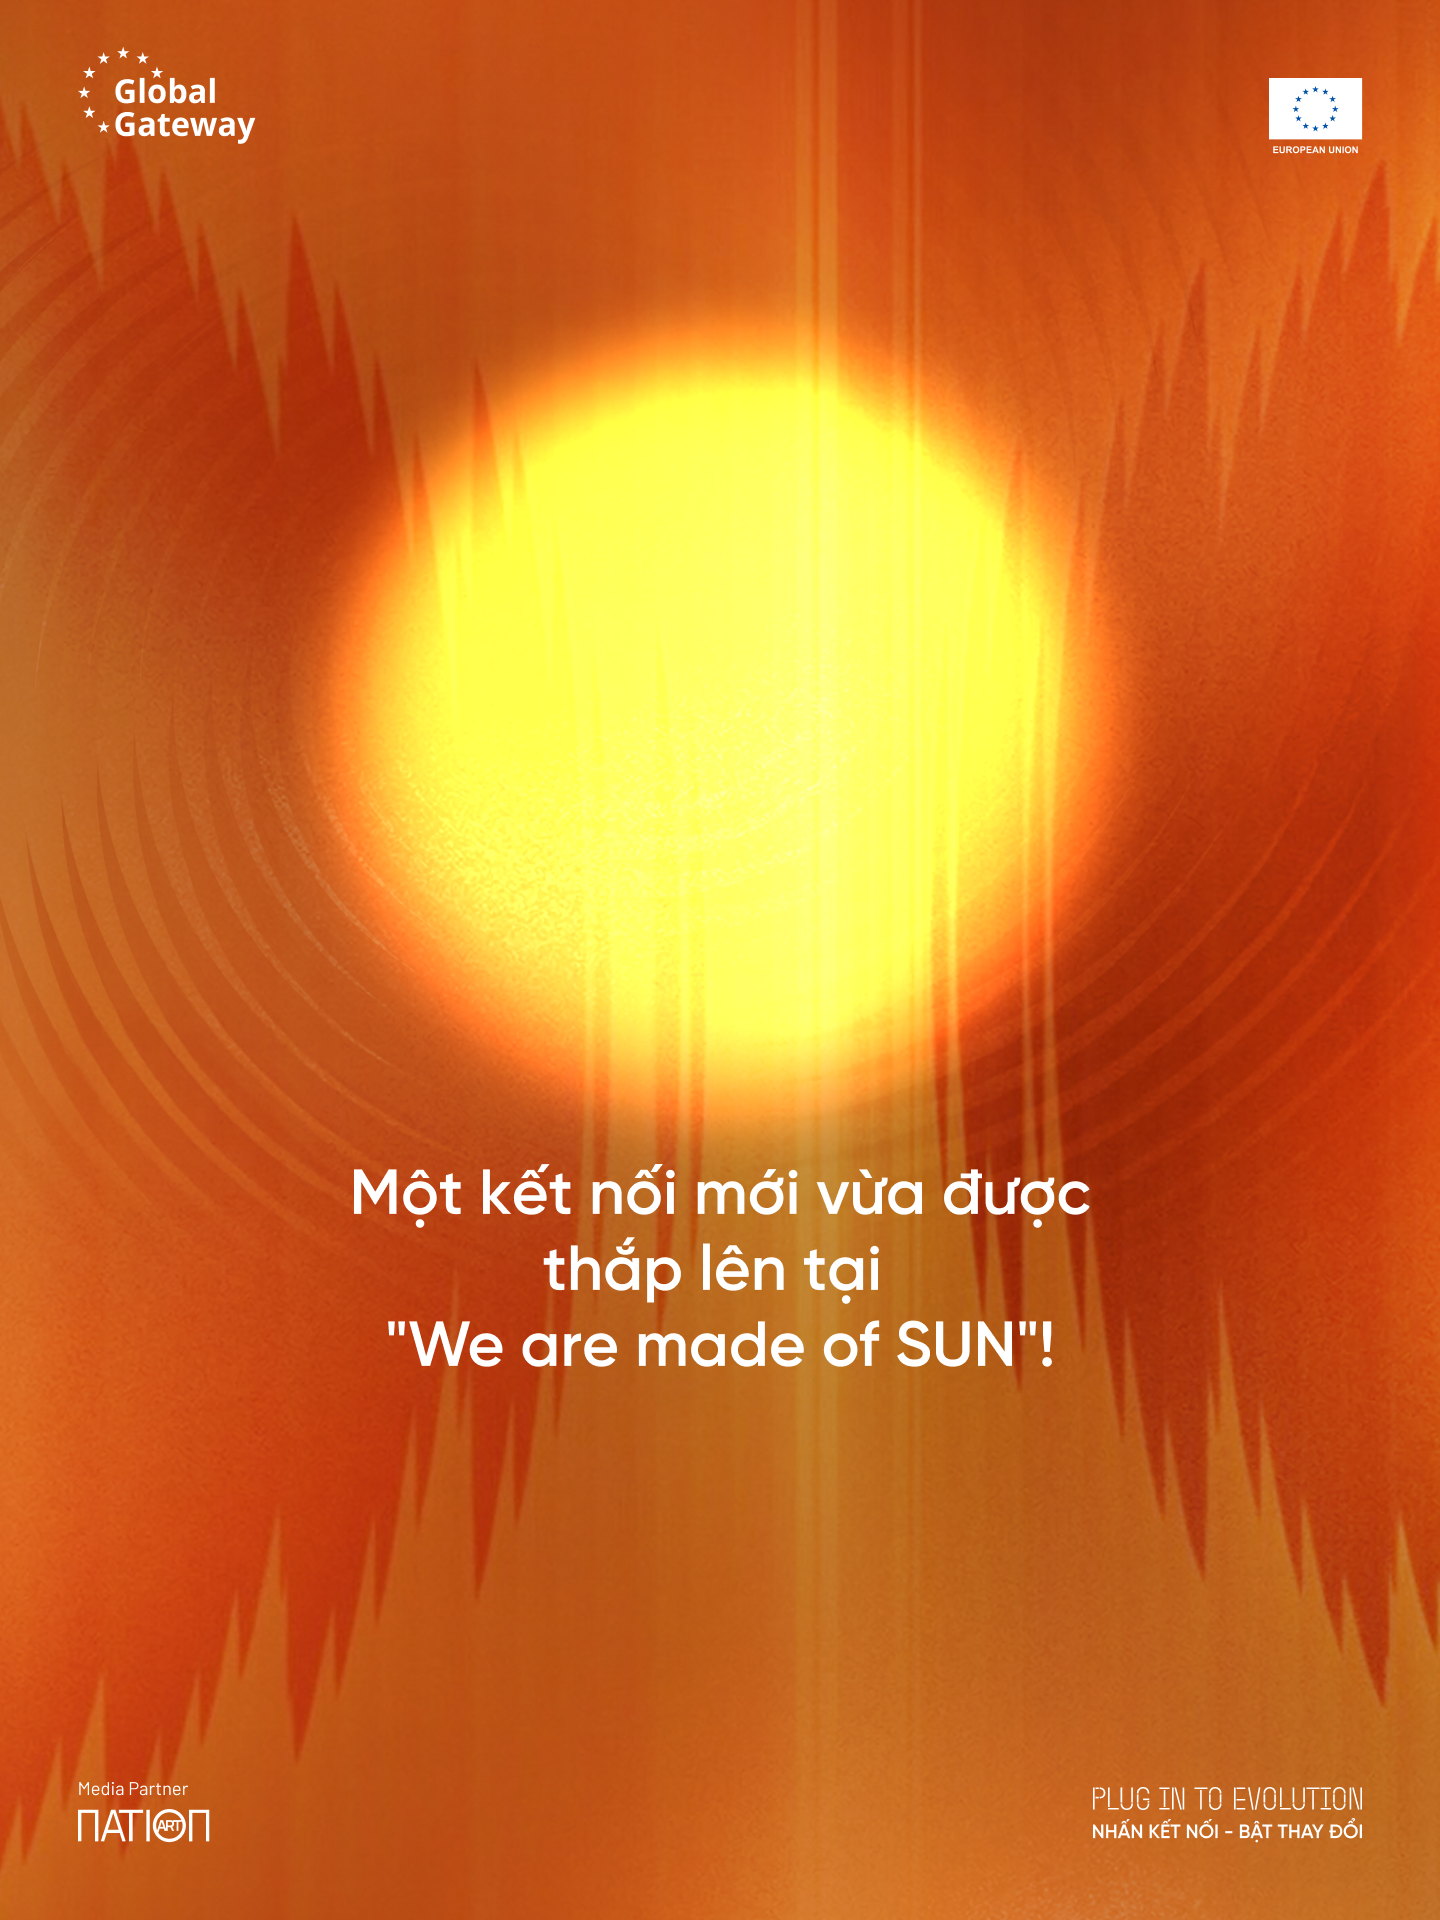
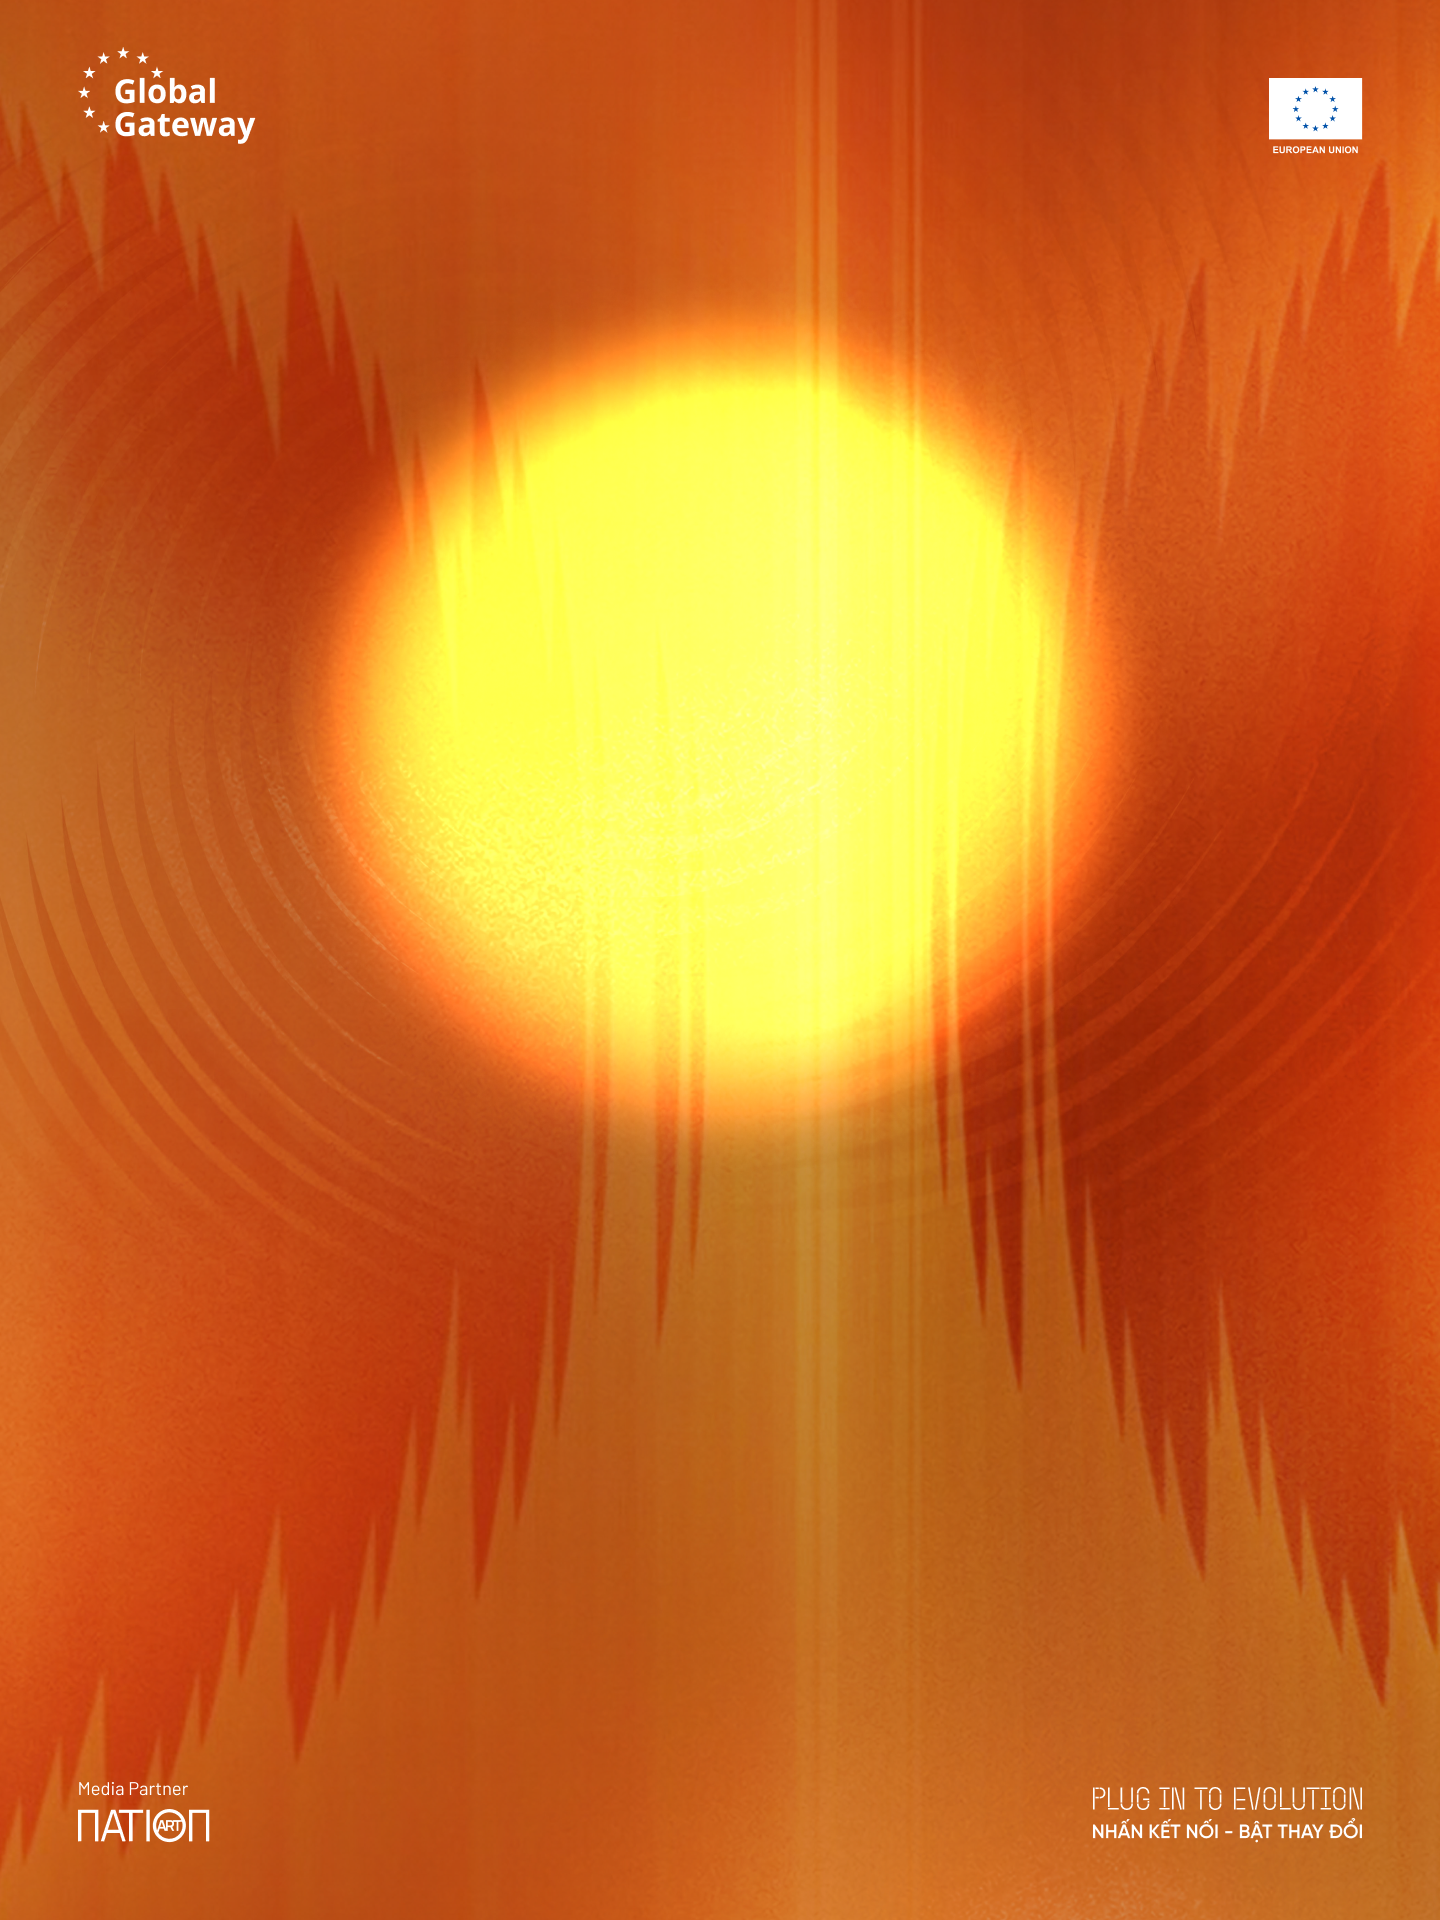
Fix bug export

Changed region(s): [[0.25, 0.5938, 0.75, 0.7188], [0.6562, 0.5938, 0.75, 0.6562]]

diff --git a/frontend/src/lib/generateCheckinExportImage.ts b/frontend/src/lib/generateCheckinExportImage.ts
@@ -5,6 +5,10 @@ const EXPORT_WIDTH = 1440;
 const EXPORT_HEIGHT = 1920;
 const PHOTO_SIZE = 717;
 const PHOTO_TOP = 366;
+const HEADLINE_MARGIN_TOP = 72;
+const HEADLINE_FONT_SIZE = 63;
+const HEADLINE_MARGIN_X = 320;
+const HEADLINE_LINE_HEIGHT = 1.25;
 const TEXT_MARGIN_TOP = 328;
 const TEXT_FONT_SIZE = 38;
 const TEXT_MARGIN_X = 318;
@@ -12,6 +16,7 @@ const TEXT_LINE_HEIGHT = 1.45;
 
 const TEMPLATE_URL = '/export_image_template.png';
 const FONT_MEDIUM_URL = '/fonts/SVN-Gilroy-Medium.otf';
+const FONT_SEMIBOLD_URL = '/fonts/SVN-Gilroy-SemiBold.otf';
 
 let fontsReady: Promise<void> | null = null;
 
@@ -44,12 +49,16 @@ async function ensureFontsLoaded(): Promise<void> {
   if (fontsReady) return fontsReady;
 
   fontsReady = (async () => {
-    const face = await new FontFace(
-      'GilroyExport',
-      `url(${FONT_MEDIUM_URL})`,
-      { weight: '500' },
-    ).load();
-    document.fonts.add(face);
+    const [medium, semibold] = await Promise.all([
+      new FontFace('GilroyExport', `url(${FONT_MEDIUM_URL})`, {
+        weight: '500',
+      }).load(),
+      new FontFace('GilroyExport', `url(${FONT_SEMIBOLD_URL})`, {
+        weight: '600',
+      }).load(),
+    ]);
+    document.fonts.add(medium);
+    document.fonts.add(semibold);
     await document.fonts.ready;
   })();
 
@@ -164,13 +173,39 @@ export async function generateCheckinExportImage({
   drawCirclePhoto(ctx, userPhoto, photoX, PHOTO_TOP, PHOTO_SIZE);
   userPhoto.close?.();
 
-  const textMaxWidth = EXPORT_WIDTH - TEXT_MARGIN_X * 2;
   const photoBottom = PHOTO_TOP + PHOTO_SIZE;
+  const headlineMaxWidth = EXPORT_WIDTH - HEADLINE_MARGIN_X * 2;
+  const headline = translate(locale, 'display.thankYouHeadline');
+  const sunQuote = translate(locale, 'display.thankYouSunQuote');
   const body = translate(locale, 'display.thankYouBody', { name });
 
   ctx.fillStyle = '#ffffff';
   ctx.textAlign = 'center';
   ctx.textBaseline = 'top';
+  ctx.font = `600 ${HEADLINE_FONT_SIZE}px GilroyExport, sans-serif`;
+
+  const headlineLineHeight = HEADLINE_FONT_SIZE * HEADLINE_LINE_HEIGHT;
+  const headlineLines = wrapText(ctx, headline, headlineMaxWidth);
+  let textY = drawWrappedText(
+    ctx,
+    headlineLines,
+    HEADLINE_MARGIN_X,
+    photoBottom + HEADLINE_MARGIN_TOP,
+    headlineMaxWidth,
+    headlineLineHeight,
+  );
+
+  const quoteLines = wrapText(ctx, sunQuote, headlineMaxWidth);
+  textY = drawWrappedText(
+    ctx,
+    quoteLines,
+    HEADLINE_MARGIN_X,
+    textY,
+    headlineMaxWidth,
+    headlineLineHeight,
+  );
+
+  const textMaxWidth = EXPORT_WIDTH - TEXT_MARGIN_X * 2;
   ctx.font = `500 ${TEXT_FONT_SIZE}px GilroyExport, sans-serif`;
 
   const bodyLines = wrapText(ctx, body, textMaxWidth);
@@ -178,7 +213,7 @@ export async function generateCheckinExportImage({
     ctx,
     bodyLines,
     TEXT_MARGIN_X,
-    photoBottom + TEXT_MARGIN_TOP,
+    Math.max(photoBottom + TEXT_MARGIN_TOP, textY + 40),
     textMaxWidth,
     TEXT_FONT_SIZE * TEXT_LINE_HEIGHT,
   );